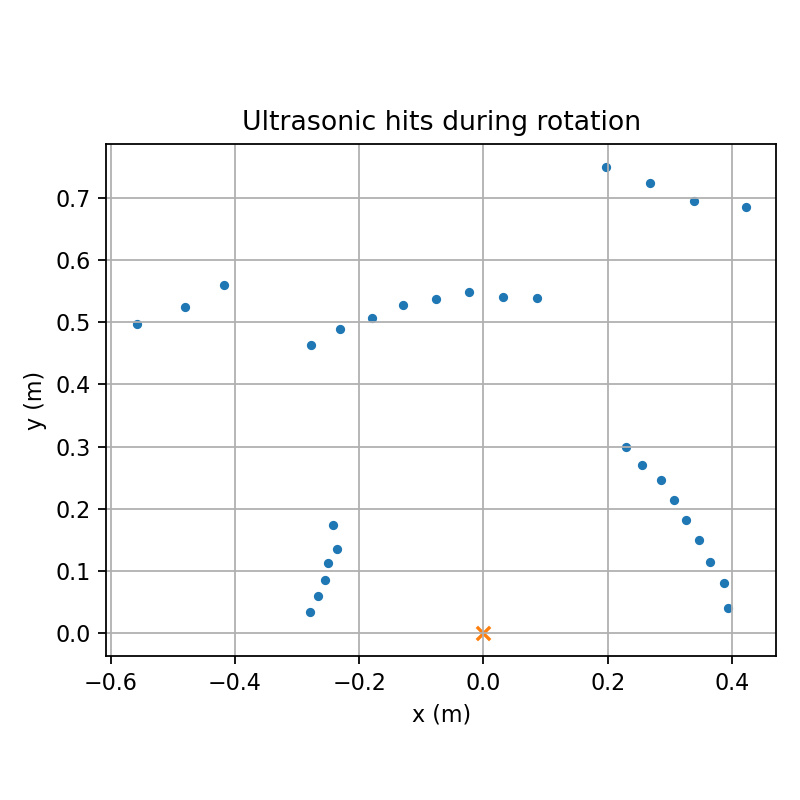
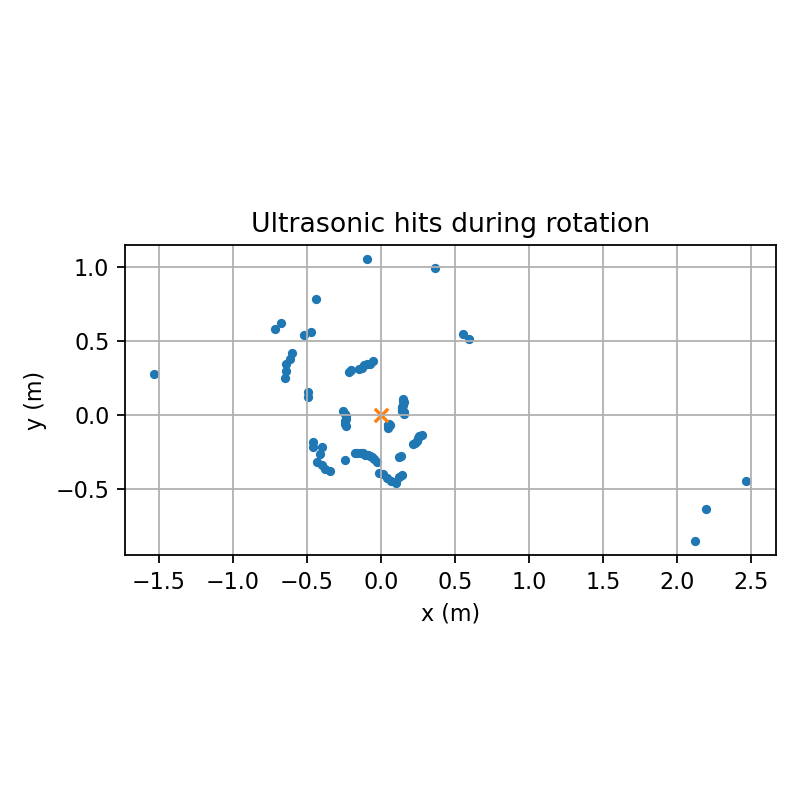
update rotation calibration for bot

diff --git a/python/rotate_scan.py b/python/rotate_scan.py
@@ -19,14 +19,14 @@ ECHO = 27
 # Rotation calibration:
 # Measure how long (seconds) it takes your bot to turn 90° (pi/2 rad) at a given speed.
 # sec_per_rad = seconds_for_90deg / (math.pi / 2)
-SECONDS_FOR_90_AT_SPEED = 0.8 # <-- put your measured value here
-SEC_PER_RAD = SECONDS_FOR_90_AT_SPEED / (math.pi / 2)
+SECONDS_FOR_360_AT_SPEED = 1.1 # <-- put your measured value here
+SEC_PER_RAD = SECONDS_FOR_360_AT_SPEED / (2.0 * math.pi)
 
 # Motor speed (PWM duty, ~ -100..100). Keep modest to reduce slip.
-ROTATE_SPEED = 10
+ROTATE_SPEED = 20
 
 # Scan settings
-SAMPLE_PERIOD = 0.05  # seconds between sonar shots
+SAMPLE_PERIOD = 0.01  # seconds between sonar shots
 ECHO_TIMEOUT = 0.03   # seconds (30 ms -> ~5 m max)
 MIN_CM, MAX_CM = 2.0, 400.0
 
